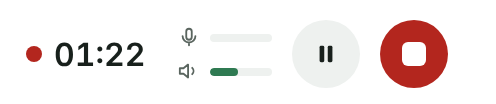
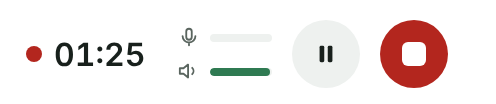
feat(reunion): bouton « Couper » du micro, 4.9.0 (§53)
Bouton « Couper » / « Rétablir » dans la ligne « Votre micro », icône du
micro cliquable dans la mini-fenêtre. La piste du micro est rendue muette
(track.enabled) : rien n'est transcrit pendant la coupure, ni en direct
ni au rattrapage ; le son de la réunion continue d'être capté.

Claude-Session: https://claude.ai/code/session_01G6rbD8zz7LL5YDCLfhkGyM

Changed region(s): [[0.2419, 0.4038, 0.3024, 0.6346], [0.4536, 0.6346, 0.5444, 0.75]]

diff --git a/Lowsper.html b/Lowsper.html
@@ -607,6 +607,8 @@
           <span class="check-mark" aria-hidden="true"><svg class="i-ok" viewBox="0 0 24 24"><path d="M5 12.5l4.5 4.5L19 7.5"/></svg><svg class="i-warn" viewBox="0 0 24 24"><path d="M12 6v8M12 18.5v.5"/></svg><svg class="i-idle" viewBox="0 0 24 24"><path d="M7 12h10"/></svg></span>
           <span class="check-text"><span data-i18n="meet.mic">Votre micro</span><span class="check-status" id="me-status" aria-live="polite"></span></span>
           <span class="level"><i id="me-level"></i></span>
+          <!-- Couper le micro, comme dans la visio : votre voix n'est plus transcrite (decision.md §53) -->
+          <button class="btn small mute-btn" id="mic-mute" type="button" aria-pressed="false" title="Couper votre micro : votre voix n’est plus transcrite" data-i18n="meet.mute" data-i18n-attr="title:meet.muteTitle">Couper</button>
         </div>
         <div class="check-row" id="row-others" data-state="ok">
           <span class="check-mark" aria-hidden="true"><svg class="i-ok" viewBox="0 0 24 24"><path d="M5 12.5l4.5 4.5L19 7.5"/></svg><svg class="i-warn" viewBox="0 0 24 24"><path d="M12 6v8M12 18.5v.5"/></svg><svg class="i-idle" viewBox="0 0 24 24"><path d="M7 12h10"/></svg></span>
@@ -667,7 +669,7 @@
       <div class="mini-bar" id="mini">
         <span class="mini-time" id="mini-state" title="Enregistrement" data-i18n-attr="title:rec.recording"><span class="rec-dot"></span><span id="mini-timer">00:00</span></span>
         <span class="mini-levels">
-          <span class="mini-level" title="Votre micro" data-i18n-attr="title:meet.mic"><svg class="ico" viewBox="0 0 24 24" aria-hidden="true"><path d="M12 3a3 3 0 0 0-3 3v6a3 3 0 0 0 6 0V6a3 3 0 0 0-3-3z"/><path d="M19 11a7 7 0 0 1-14 0M12 18v3"/></svg><span class="level"><i id="mini-me"></i></span></span>
+          <button class="mini-level mini-mute" id="mini-mute" type="button" aria-pressed="false" title="Couper votre micro : votre voix n’est plus transcrite" aria-label="Couper votre micro : votre voix n’est plus transcrite" data-i18n-attr="title:meet.muteTitle;aria-label:meet.muteTitle"><svg class="ico" viewBox="0 0 24 24" aria-hidden="true"><path d="M12 3a3 3 0 0 0-3 3v6a3 3 0 0 0 6 0V6a3 3 0 0 0-3-3z"/><path d="M19 11a7 7 0 0 1-14 0M12 18v3"/><path class="slash" d="M4 4l16 16"/></svg><span class="level"><i id="mini-me"></i></span></button>
           <span class="mini-level" id="mini-others-row" title="Son de la réunion" data-i18n-attr="title:meet.sound"><svg class="ico" viewBox="0 0 24 24" aria-hidden="true"><path d="M11 5 6 9H2v6h4l5 4z"/><path d="M15.5 8.5a5 5 0 0 1 0 7"/></svg><span class="level"><i id="mini-others"></i></span></span>
         </span>
         <button class="mini-btn" id="mini-pause" type="button" aria-label="Pause" title="Pause" data-i18n-attr="aria-label:rec.pause;title:rec.pause"><svg class="ico i-pause" viewBox="0 0 24 24" aria-hidden="true"><rect x="6.5" y="5" width="4" height="14" rx="1.2"/><rect x="13.5" y="5" width="4" height="14" rx="1.2"/></svg><svg class="ico i-play" viewBox="0 0 24 24" aria-hidden="true"><path d="M8 5.5v13l11-6.5z"/></svg></button>

diff --git a/app/js/app.js b/app/js/app.js
@@ -687,6 +687,8 @@
     );
     await app.capture.init();
     if (mic) attachSource('me', mic);
+    app.micTrack = mic ? mic.getAudioTracks()[0] : null;
+    setMuted(false);
     if (others) attachSource('others', others);
 
     setState('recording');
@@ -1427,6 +1429,7 @@
       othersWanted: app.othersWanted,
       othersSilentMs: Date.now() - ((app.heard && app.heard.others) || 0),
       paused: app.capture.paused,
+      micMuted: !!app.micMuted,
       engineReady: app.engineReady,
       engineError: app.engineError,
       delayS: textDelay(),
@@ -1493,6 +1496,29 @@
     $('rec-label').textContent = paused ? tr('rec.paused') : tr('rec.recording');
     $('mini-state').title = paused ? tr('rec.paused') : tr('rec.recording');
   }
+
+  /**
+   * Couper le micro, comme dans la visio (decision.md §53) : la piste du micro ne donne plus que
+   * du silence (track.enabled), donc rien n'est transcrit, ni en direct ni au rattrapage de fin de
+   * réunion. Le son de la réunion continue d'être capté.
+   */
+  function setMuted(muted) {
+    app.micMuted = !!muted && !!app.micTrack;
+    if (app.micTrack) app.micTrack.enabled = !app.micMuted;
+    const b = $('mic-mute');
+    b.hidden = !app.micTrack;
+    b.setAttribute('aria-pressed', String(app.micMuted));
+    b.textContent = tr(app.micMuted ? 'meet.unmute' : 'meet.mute');
+    b.title = tr(app.micMuted ? 'meet.unmuteTitle' : 'meet.muteTitle');
+    $('row-me').classList.toggle('muted', app.micMuted);
+    const m = $('mini-mute');
+    m.setAttribute('aria-pressed', String(app.micMuted));
+    m.title = tr(app.micMuted ? 'meet.unmuteTitle' : 'meet.muteTitle');
+    m.setAttribute('aria-label', m.title);
+    if (app.transcript) journal('micro', { coupe: app.micMuted });
+    renderChecks();
+  }
+  app.setMuted = setMuted; // tests
 
   function togglePause() {
     if (!app.capture) return;
@@ -3458,6 +3484,8 @@
   $('stop').addEventListener('click', stop);
   $('mini-stop').addEventListener('click', stop);
   $('mini-pause').addEventListener('click', togglePause);
+  $('mic-mute').addEventListener('click', () => setMuted(!app.micMuted));
+  $('mini-mute').addEventListener('click', () => setMuted(!app.micMuted));
   // « Comment corriger » : l'explication, avec un bouton pour partager de nouveau le son
   $('others-fix').addEventListener('click', () => notice(tr('meet.fixHelp'), 'others'));
   $('others-add').addEventListener('click', addOthers);

diff --git a/app/css/lowsper.css b/app/css/lowsper.css
@@ -580,7 +580,11 @@ label.home-row { cursor: text; }
 #meet-title:focus { border-color: var(--accent); color: var(--text); outline: none; }
 .checks { margin: 0; }
 .check-row { display: flex; align-items: center; gap: 12px; min-height: 48px; padding: 6px 16px; box-sizing: border-box; }
-.check-row .add-btn { flex: none; }
+.check-row .add-btn, .check-row .mute-btn { flex: none; }
+.check-row .mute-btn[hidden] { display: none; }
+.check-row.muted .level { visibility: hidden; }
+.check-status { overflow: hidden; text-overflow: ellipsis; }
+.mute-btn[aria-pressed="true"] { background: var(--danger); border-color: var(--danger); color: #fff; }
 .check-row .add-btn[hidden] { display: none; }
 .check-row + .check-row { border-top: 1px solid var(--border); }
 .check-mark { flex: none; width: 26px; height: 26px; border-radius: 50%; display: grid; place-items: center; font-size: 14px; font-weight: 700; background: color-mix(in srgb, var(--ok) 15%, transparent); color: var(--ok); }
@@ -640,6 +644,14 @@ body.pip .mini-bar, body.mini .mini-bar { display: flex; }
 .mini-level .ico { width: 11px; height: 11px; margin: 0; }
 .mini-level .level { flex: 1; height: 4px; }
 .mini-level.warn { color: var(--warn-ink); }
+/* Micro de la mini-barre : bouton pour couper ou rétablir le micro (decision.md §53) */
+.mini-mute { border: 0; background: none; padding: 2px 4px; margin: -2px -4px; border-radius: 6px; font: inherit; cursor: pointer; }
+.mini-mute:hover { background: var(--surface-2); }
+.mini-mute:focus-visible { outline: 2px solid var(--accent); outline-offset: 1px; }
+.mini-mute .slash { display: none; }
+.mini-mute[aria-pressed="true"] { color: var(--danger); }
+.mini-mute[aria-pressed="true"] .slash { display: inline; }
+.mini-mute[aria-pressed="true"] .level { visibility: hidden; }
 .mini-level.warn .level { background: var(--warn-border); }
 .mini-btn { flex: none; width: 34px; height: 34px; border: 0; border-radius: 50%; display: grid; place-items: center; background: var(--surface-2); color: var(--text); cursor: pointer; }
 .mini-btn .ico { width: 14px; height: 14px; margin: 0; fill: currentColor; stroke: none; }

diff --git a/app/js/i18n.js b/app/js/i18n.js
@@ -600,6 +600,11 @@
     'meet.mic': 'Votre micro',
     'meet.micOk': 'Je vous entends',
     'meet.micOff': 'Non capté',
+    'meet.micMuted': 'Coupé',
+    'meet.mute': 'Couper',
+    'meet.unmute': 'Rétablir',
+    'meet.muteTitle': 'Couper votre micro : votre voix n’est plus transcrite',
+    'meet.unmuteTitle': 'Rétablir votre micro',
     'meet.sound': 'Son de la réunion',
     'meet.soundOk': 'Le son arrive',
     'meet.soundNone': 'Rien ne passe',
@@ -1443,6 +1448,11 @@
     'meet.mic': 'Your microphone',
     'meet.micOk': 'Hearing you',
     'meet.micOff': 'Not captured',
+    'meet.micMuted': 'Muted',
+    'meet.mute': 'Mute',
+    'meet.unmute': 'Unmute',
+    'meet.muteTitle': 'Mute your microphone: your voice is no longer transcribed',
+    'meet.unmuteTitle': 'Unmute your microphone',
     'meet.sound': 'Meeting sound',
     'meet.soundOk': 'Coming through',
     'meet.soundNone': 'Nothing is coming through',

diff --git a/app/js/meeting.js b/app/js/meeting.js
@@ -28,6 +28,7 @@
    *   othersWanted : l'option « son des participants » est cochée ;
    *   othersSilentMs : temps depuis la dernière parole entendue dans le son de la réunion ;
    *   paused, engineReady, engineError ;
+   *   micMuted : micro coupé par l'utilisateur (decision.md §53) ;
    *   delayS : âge du plus ancien passage en attente (secondes).
    * }
    * Retourne { me, others, text } : chacun { state, key, vars? } ; others.fix : bouton
@@ -37,9 +38,11 @@
     const me =
       s.me !== 'on'
         ? { state: 'warn', key: 'meet.micOff' }
-        : s.paused
-          ? { state: 'idle', key: 'meet.paused' }
-          : { state: 'ok', key: 'meet.micOk' };
+        : s.micMuted
+          ? { state: 'idle', key: 'meet.micMuted' }
+          : s.paused
+            ? { state: 'idle', key: 'meet.paused' }
+            : { state: 'ok', key: 'meet.micOk' };
 
     let others;
     if (s.others !== 'on')

diff --git a/decision.md b/decision.md
@@ -3385,3 +3385,30 @@ pas de mesure `npm run bench`.
 **Limites.** Non vérifié sur le PC du mainteneur ni dans Edge. Windows 11 est reconnu par les
 Client Hints : un navigateur qui les bloque est traité comme les autres systèmes (essai du son du
 système, puis bouton). Un clic par navigateur pour le dossier reste nécessaire.
+
+## 53. Couper le micro pendant la réunion (4.9.0)
+
+**Contexte.** Demande du mainteneur, sur son PC d'entreprise : pouvoir se couper dans Lowsper
+d'un clic sur le micro, comme dans Teams ou Jabber.
+
+**Options.**
+| Option | Verdict |
+|---|---|
+| Détacher la source « micro » de la capture | Écarté : le découpeur et la détection de parole repartent de zéro au rétablissement, et le rattrapage de fin de réunion perd son alignement. |
+| Laisser passer le son et retirer ensuite les passages | Écarté : la voix coupée serait quand même transcrite et gardée en mémoire. |
+| **`track.enabled = false` sur la piste du micro** | **Retenu** : la piste ne donne plus que du silence ; la chaîne (découpeur, détection de parole, son gardé pour le rattrapage) continue sans rupture, et rien de ce qui est dit pendant la coupure n'est transcrit, ni en direct ni en fin de réunion. |
+
+**Ce qui change.** Bouton « Couper » / « Rétablir » (`aria-pressed`) dans la ligne « Votre
+micro », icône du micro cliquable et barrée dans la mini-barre ; l'état dit « Coupé » sans alerte
+(`meeting.js`, `micMuted`) et la jauge du micro disparaît. Chaque changement est consigné dans le
+journal technique (`micro`, `coupe`). Le micro est rétabli au début de chaque réunion ; il reste
+coupé quand on enchaîne sur la réunion suivante sans arrêter, comme dans une visio.
+
+**Vérifié.** Test unitaire de l'état ; `test/e2e-share.mjs` : coupé depuis la fenêtre, rétabli
+depuis la mini-barre, piste muette puis rétablie ; `npm test` et `npm run test:e2e` verts. Le
+chemin du direct n'est pas modifié (une piste muette donne du silence, déjà traité) : pas de
+mesure `npm run bench`.
+
+**Limites.** La coupure de Lowsper est indépendante de celle de Teams ou de Jabber : se couper
+dans la visio ne coupe pas Lowsper (aucune page web ne peut lire l'état d'une autre application).
+Non vérifié sur le PC du mainteneur.

diff --git a/AGENTS.md b/AGENTS.md
@@ -110,7 +110,7 @@ Depuis `tools/`, Node.js 20 ou plus.
 | Décodage des fichiers importés, 7 formats (10 s, Chrome) ; `--long` : 3 h, mémoire | `npm run test:import` |
 | Bout en bout de l'import de fichiers (après `--embed`, 3 min) | `npm run test:e2e-import` |
 | Bout en bout des profils et des notes, faux dossier (après `--embed`, 5 min) | `npm run test:e2e-notes` |
-| Bout en bout du son de la réunion après un refus de Windows, partage simulé (après `--embed`, 1 min, `decision.md` §51) | `npm run test:e2e-share` |
+| Bout en bout du son de la réunion (refus de Windows, Windows 11, micro coupé), partage simulé (après `--embed`, 1 min, `decision.md` §51 à §53) | `npm run test:e2e-share` |
 | Mesure de vitesse du moteur (après `node build.mjs --embed whisper-small`) | `npm run bench` |
 | Paquet de distribution `tools/dist/Lowsper-X.Y.Z.zip` (et son test) | `npm run release`, `npm run test:release` |
 | Captures d'écran de la documentation (après `--embed`, 5 min) | `node test/screenshots.mjs` |
@@ -149,7 +149,7 @@ Changer de révision d'un modèle : `node fetch-model.mjs <id> --update`, puis r
 |---|---|
 | `Lowsper.html` | Page à ouvrir : interface et politique de sécurité (CSP) |
 | `app/js/theme.js` | Thème clair ou sombre (système par défaut, choix mémorisé), chargé dans `<head>` |
-| `app/js/meeting.js` | Contrôle d'état de la réunion (micro, son, texte) et ses seuils (`decision.md` §28) |
+| `app/js/meeting.js` | Contrôle d'état de la réunion (micro, coupé ou non, son, texte) et ses seuils (`decision.md` §28 et §53) |
 | `app/js/menu.js` | Menu dessiné par Lowsper, composant commun (clavier, lecteur d'écran) : langue, « Enregistrer la note dans », consigne de « Obtenir un résumé » |
 | `app/js/panel.js` | Paramètres : onglets, sous-écrans et listes à choix dessinées, composant commun (clavier, lecteur d'écran, `decision.md` §30) |
 | `app/js/recommend.js` | Détection du PC, moteurs autorisés, modèle recommandé au premier lancement (`decision.md` §26) |

diff --git a/docs/guide.md b/docs/guide.md
@@ -105,7 +105,10 @@ réunion qui travaille hors ligne.
    La **fenêtre de Lowsper** (bouton « Réduire » pour revenir à la mini-fenêtre) tient sans
    défiler, même sur un portable : chronomètre, nom de la réunion (modifiable) et un **contrôle
    d'état** en langage simple :
-   - **votre micro** : « Je vous entends » ;
+   - **votre micro** : « Je vous entends ». Le bouton **« Couper »** coupe votre micro, comme
+     dans la visio : votre voix n'est plus transcrite, ni pendant ni après la réunion, jusqu'à
+     « Rétablir ». Dans la mini-fenêtre, cliquez sur l'icône du micro (barrée quand il est
+     coupé). Le son de la réunion, lui, continue d'être capté ;
    - **le son de la réunion** : « Le son arrive », ou « Rien ne passe » avec un bouton **« Comment
      corriger »** qui permet de partager de nouveau le son ;
    - **le texte écrit** : « À jour », ou le retard en secondes si le PC prend du retard.

diff --git a/docs/lots.md b/docs/lots.md
@@ -46,7 +46,7 @@ l'onglet de la visio, son pris dans le navigateur, quand Windows refuse le son (
 d'une réunion en français (`decision.md` §48 et §49). 4.7.0 : son de toutes les applications quand
 Windows refuse le son du système (`decision.md` §51). 4.8.0 : aucun message d'erreur sous Windows 11,
 même dossier de notes dans tous les navigateurs, fenêtre de réunion sans défilement, bulles
-(`decision.md` §52).
+(`decision.md` §52). 4.9.0 : bouton « Couper » du micro (`decision.md` §53).
 
 Après la refonte : correctif 4.2.1 (dossier Lowsper : accès d'une ancienne version oublié, chemin
 de nouveau affiché à l'installation, dossier parent accepté ; `decision.md` §38). Correctif 4.2.2 :

diff --git a/CHANGELOG.md b/CHANGELOG.md
@@ -13,6 +13,13 @@ Les détails techniques et les mesures sont dans `decision.md`.
 
 ## [Non publié]
 
+## [4.9.0] - 2026-11-09
+
+### Ajouté
+- Bouton « Couper » du micro pendant la réunion, et icône du micro cliquable dans la
+  mini-fenêtre : votre voix n'est plus transcrite jusqu'à « Rétablir », le son de la réunion
+  continue d'être capté (decision.md §53).
+
 ## [4.8.0] - 2026-11-08
 
 ### Modifié
